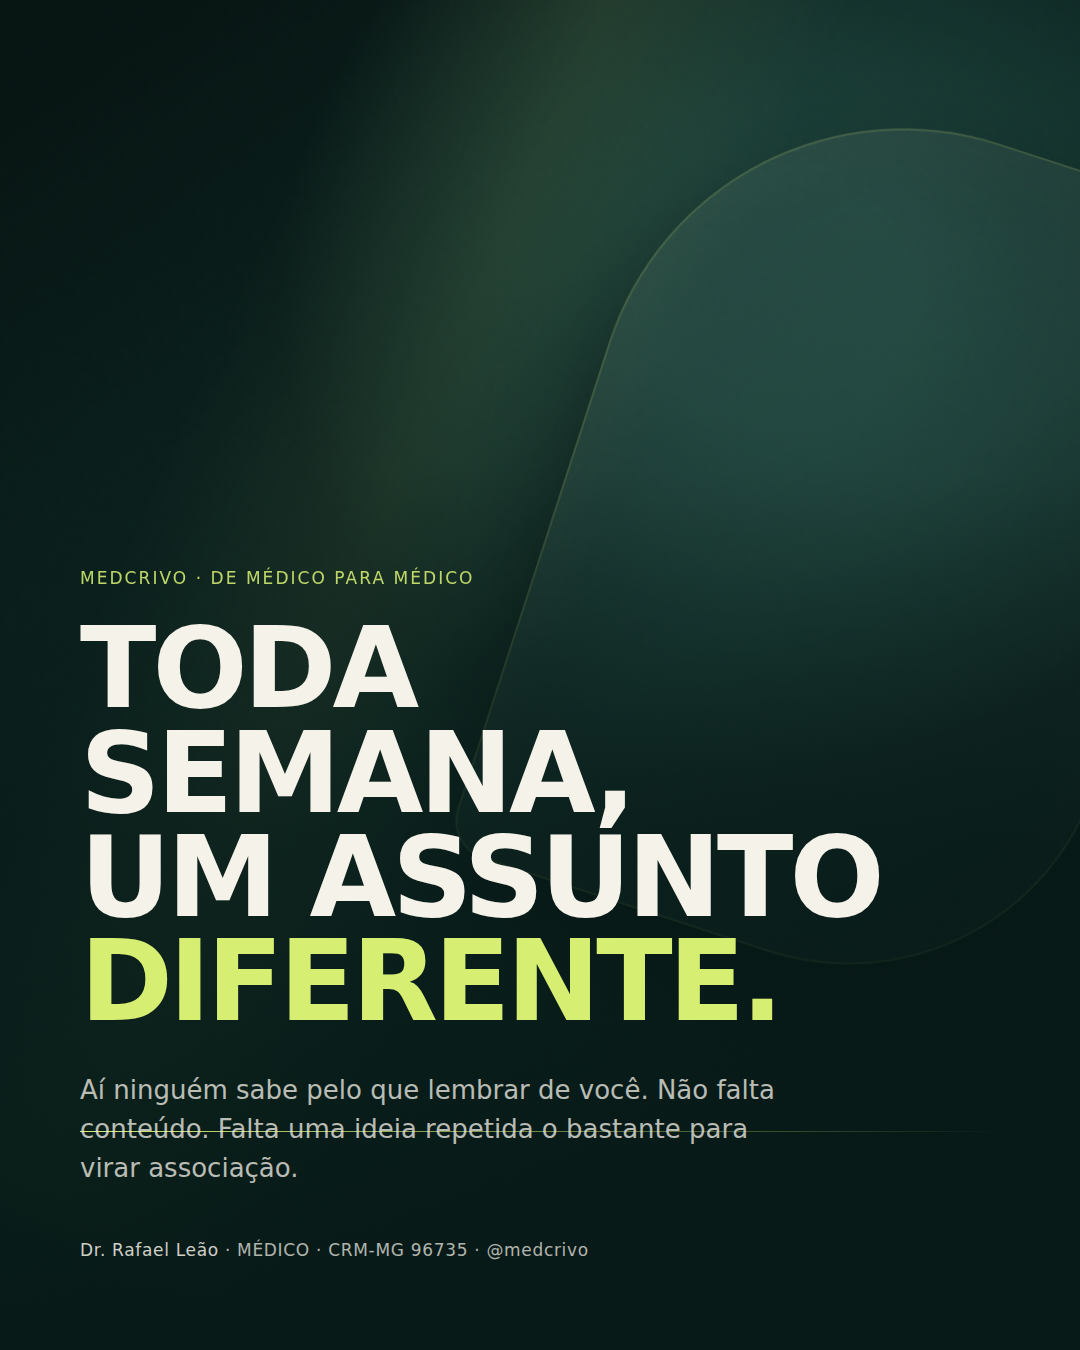
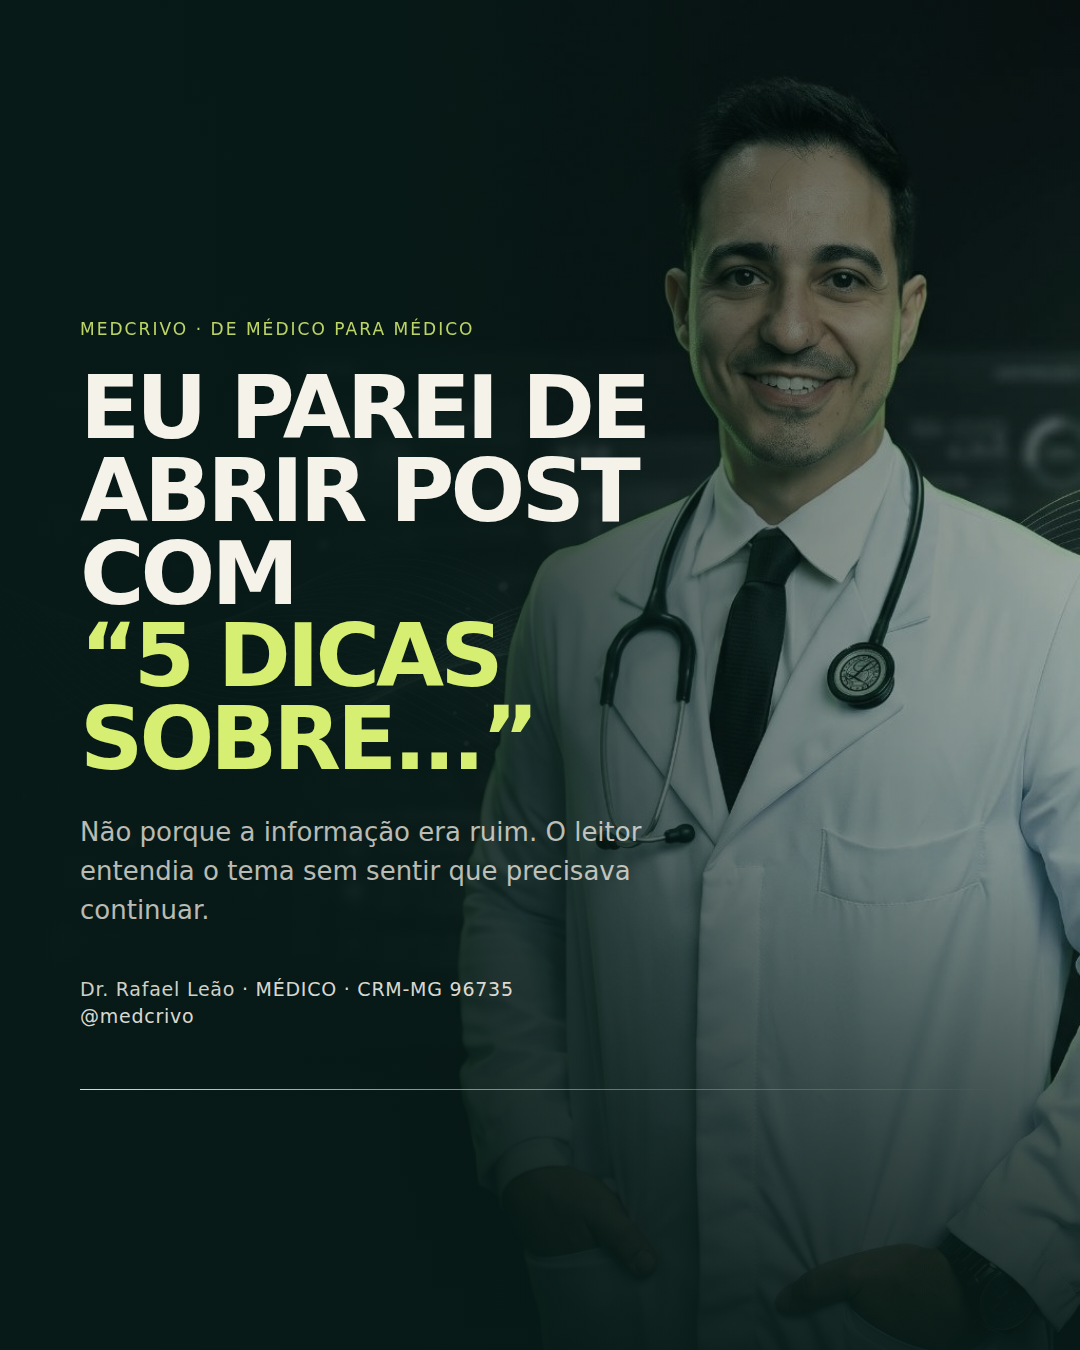
feat: aplica narrativa validada ao post com foto

diff --git a/assets/posts/e2-static/slide.html b/assets/posts/e2-static/slide.html
@@ -14,40 +14,36 @@
     position:relative;
     width:1080px;height:1350px;
     display:flex;flex-direction:column;
-    justify-content:flex-end;
-    padding:80px 80px 90px;
+    justify-content:center;
+    padding:80px;
   }
 
   /* foto de fundo */
   .bg{
     position:absolute;inset:0;
-    background:url('../../media/generated/editorial-bg-01.png') center/cover no-repeat;
-    filter:brightness(.78) saturate(.9);
+    background:url('../../media/generated/rafael-tecnologia-medica.jpg') center/cover no-repeat;
+    filter:brightness(.82) saturate(.78);
     z-index:0;
   }
   /* gradiente sobre a foto — escurece base, abre topo */
   .grad{
     position:absolute;inset:0;z-index:1;
-    background:linear-gradient(
-      180deg,
-      rgba(7,26,23,.05) 0%,
-      rgba(7,26,23,.20) 35%,
-      rgba(7,26,23,.72) 62%,
-      rgba(7,26,23,.97) 100%
-    );
+    background:
+      linear-gradient(90deg,rgba(7,26,23,.98) 0%,rgba(7,26,23,.9) 37%,rgba(7,26,23,.28) 72%,rgba(7,26,23,.08) 100%),
+      linear-gradient(180deg,rgba(7,26,23,.1) 0%,rgba(7,26,23,.15) 64%,rgba(7,26,23,.88) 100%);
   }
 
   /* linha verde — elemento de identidade MedCrivo */
   .rule{
     position:absolute;
     left:80px;right:80px;
-    bottom:218px;
+    bottom:260px;
     height:1.5px;
     background:linear-gradient(90deg,#d6ef72 0%,rgba(214,239,114,0) 100%);
     z-index:2;
   }
 
-  .content{position:relative;z-index:3}
+  .content{position:relative;z-index:3;width:590px}
 
   /* LABEL da série */
   .serie{
@@ -62,11 +58,11 @@
   .head{
     font-family:MedSans,sans-serif;
     font-weight:900;
-    font-size:112px;line-height:.93;
+    font-size:88px;line-height:.94;
     letter-spacing:-4px;
     color:#f5f2e9;
     text-transform:uppercase;
-    margin-bottom:38px;
+    margin-bottom:32px;
   }
   .head em{
     font-style:normal;
@@ -78,15 +74,15 @@
     font-family:MedSans,sans-serif;
     font-size:26px;line-height:1.5;
     color:rgba(245,242,233,.75);
-    max-width:700px;
-    margin-bottom:52px;
+    max-width:570px;
+    margin-bottom:46px;
   }
 
   /* assinatura */
   .sig{
     font-family:MedSans,sans-serif;
-    font-size:17px;letter-spacing:.04em;
-    color:rgba(245,242,233,.72);
+    font-size:19px;line-height:1.45;letter-spacing:.04em;
+    color:rgba(245,242,233,.9);
   }
   .sig strong{color:rgba(245,242,233,.85);font-weight:500}
 
@@ -100,9 +96,9 @@
   <div class="rule"></div>
   <div class="content">
     <p class="serie">MedCrivo · De médico para médico</p>
-    <h1 class="head">Toda semana,<br>um assunto<br><em>diferente.</em></h1>
-    <p class="sub">Aí ninguém sabe pelo que lembrar de você. Não falta conteúdo. Falta uma ideia repetida o bastante para virar associação.</p>
-    <p class="sig"><strong>Dr. Rafael Leão</strong> · MÉDICO · CRM-MG 96735 · @medcrivo</p>
+    <h1 class="head">Eu parei de abrir post com<br><em>“5 dicas sobre...”</em></h1>
+    <p class="sub">Não porque a informação era ruim. O leitor entendia o tema sem sentir que precisava continuar.</p>
+    <p class="sig"><strong>Dr. Rafael Leão</strong> · MÉDICO · CRM-MG 96735<br>@medcrivo</p>
   </div>
 </div>
 </body>
